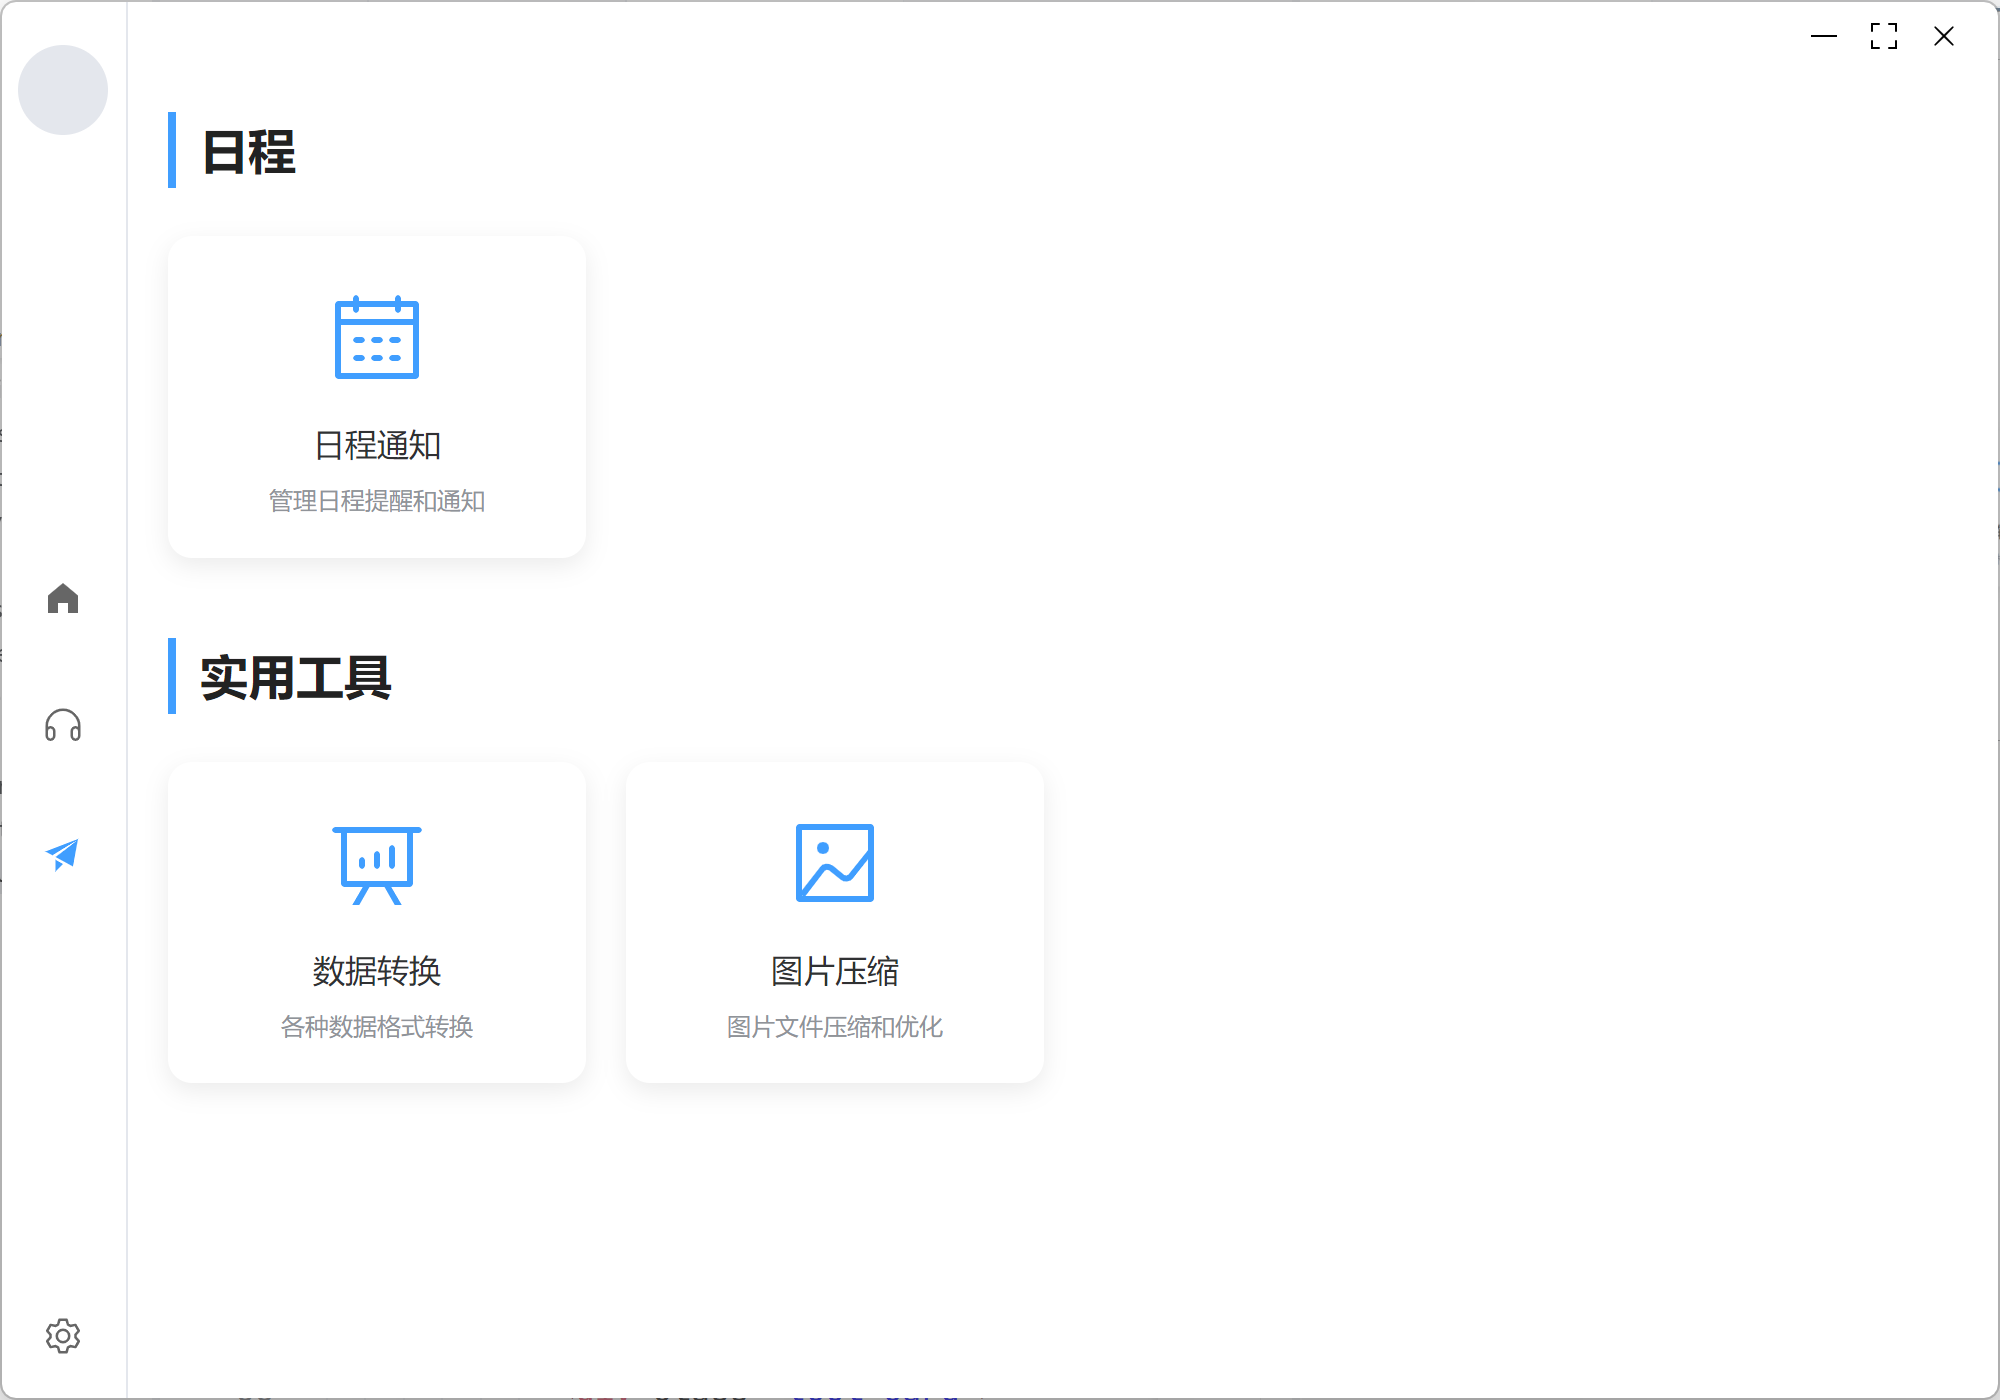
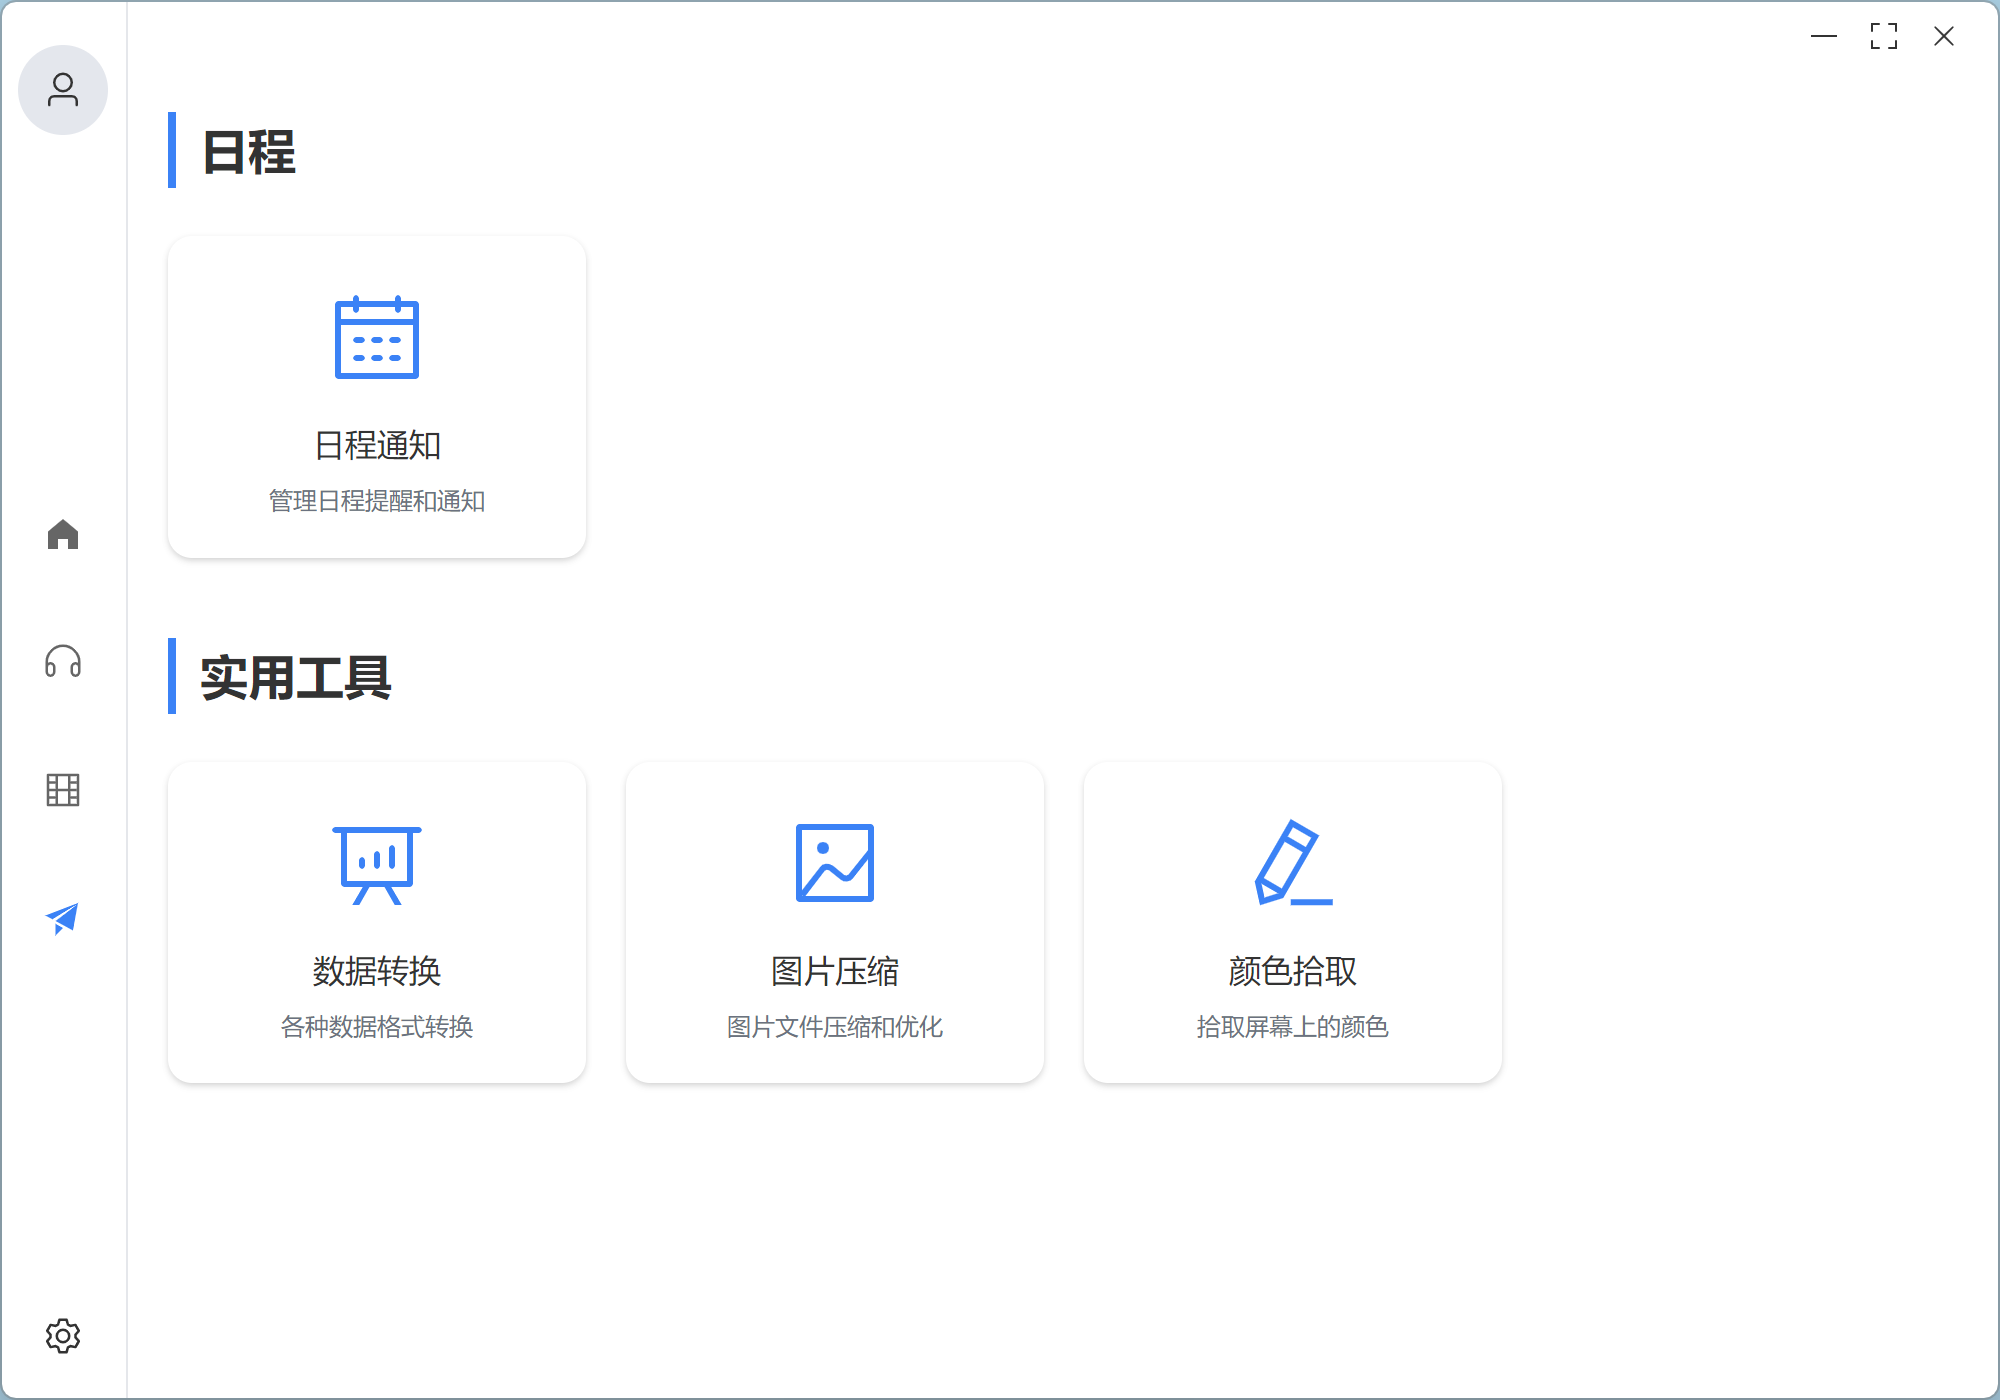
docs: 更新readme

diff --git a/README.md b/README.md
@@ -33,36 +33,40 @@ npm run build:mac
 npm run build:linux
 ```
 
-## Effect Picture
-
-![home](./src/renderer/src/assets/effectPicture/home.png)
-
-![music](./src/renderer/src/assets/effectPicture/music.png)
-
-![tools](./src/renderer/src/assets/effectPicture/tools.png)
-
 ## Feature
 
-**全局**
+**全局设置**
 
 - [x] 主题切换（浅色模式/深色模式）
 
-**音乐相关**
+![home](./src/renderer/src/assets/effectPicture/home.png)
+![home](./src/renderer/src/assets/effectPicture/home2.png)
 
-- [x] 本地音乐播放
-- [x] 桌面歌词
-- [x] 歌单管理
+**音乐**
 
-**视频相关**
+- [x] 本地音乐播放（播放、暂停、上一曲、下一曲、调整音量、调整播放进度）
+- [x] 歌单管理（创建、删除、重命名歌单，添加、删除音乐到歌单）
+- [x] 桌面歌词（显示当前播放音乐的歌词）
 
-- [x] 视频播放列表
-- [x] 本地视频播放
+![home](./src/renderer/src/assets/effectPicture/music.png)
 
-**工具相关**
+**视频**
+
+- [x] 视频集合（添加、删除、重命名视频，添加、删除视频到集合）
+- [x] 本地视频播放（播放、暂停、上一集、下一集、调整播放进度、倍速、全屏、画中画）
+
+![home](./src/renderer/src/assets/effectPicture/video.png)
+
+**工具**
 
 - [x] 日程通知
 - [ ] 待办事项列表
 - [x] JSON数据格式化
 - [x] 图片压缩
+- [x] 颜色拾取
+
+![home](./src/renderer/src/assets/effectPicture/tools.png)
 
 **其他**
+
+待补充
